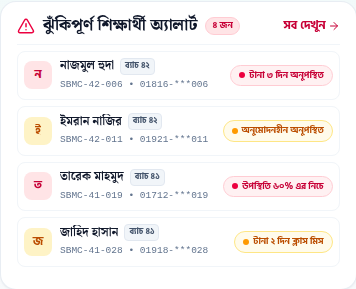
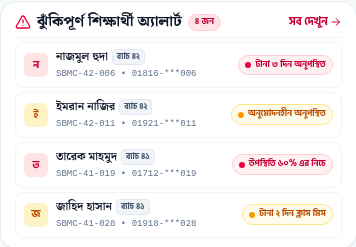
fix(admin): gently slim row 4 boxes (at-risk, classes, course progress)

diff --git a/web/src/app/admin/page.tsx b/web/src/app/admin/page.tsx
@@ -1029,62 +1029,62 @@ export default function AdminOverviewPage() {
         </div>
       </div>
 
-      {/* 4. ROW 4: AT-RISK ALERTS (4 COLS) + UPCOMING CLASSES (5 COLS) + COURSE PROGRESS (3 COLS) - SLIM & COMPACT */}
+      {/* 4. ROW 4: AT-RISK ALERTS (4 COLS) + UPCOMING CLASSES (5 COLS) + COURSE PROGRESS (3 COLS) - GENTLY SLIMMED */}
       <div className="grid grid-cols-1 md:grid-cols-12 gap-3.5 items-stretch">
-        {/* Col 1: At-Risk & Repeated Absence Alerts (4 cols) - Slim & Compact */}
-        <div className="md:col-span-12 lg:col-span-4 bg-white rounded-2xl p-3.5 sm:px-4 sm:py-3 border border-slate-200/80 shadow-xs flex flex-col justify-between">
+        {/* Col 1: At-Risk & Repeated Absence Alerts (4 cols) - Moderately Slim */}
+        <div className="md:col-span-12 lg:col-span-4 bg-white rounded-2xl p-2.5 sm:px-3.5 sm:py-2.5 border border-slate-200/80 shadow-xs flex flex-col justify-between">
           <div>
-            <div className="flex items-center justify-between pb-1.5 border-b border-slate-100">
-              <div className="flex items-center gap-2">
-                <AlertTriangle className="w-4.5 h-4.5 text-rose-600 shrink-0" />
-                <h3 className="text-[15px] sm:text-base font-extrabold text-[#0F172A] font-serif">
+            <div className="flex items-center justify-between pb-1 border-b border-slate-100">
+              <div className="flex items-center gap-1.5">
+                <AlertTriangle className="w-4 h-4 text-rose-600 shrink-0" />
+                <h3 className="text-sm sm:text-[15px] font-extrabold text-[#0F172A] font-serif">
                   {isBangla ? 'ঝুঁকিপূর্ণ শিক্ষার্থী অ্যালার্ট' : 'At-Risk Student Alerts'}
                 </h3>
-                <span className="px-1.5 py-0.2 rounded-full text-[9px] font-black bg-rose-100 text-rose-700 border border-rose-200">
+                <span className="px-1.5 py-0.2 rounded-full text-[8.5px] font-black bg-rose-100 text-rose-700 border border-rose-200">
                   {isBangla ? '৪ জন' : '4'}
                 </span>
               </div>
               <Link
                 href="/coordinator/at-risk"
-                className="text-xs font-bold text-rose-700 hover:text-rose-800 flex items-center gap-0.5 hover:underline"
+                className="text-[11px] font-bold text-rose-700 hover:text-rose-800 flex items-center gap-0.5 hover:underline"
               >
                 <span>{isBangla ? 'সব দেখুন' : 'View All'}</span>
                 <ArrowRight className="w-3 h-3" />
               </Link>
             </div>
 
-            <div className="space-y-1.5 mt-1.5">
+            <div className="space-y-1 mt-1">
               {atRiskStudentsAlerts.map((st) => (
                 <div
                   key={st.id}
-                  className="flex items-center justify-between gap-2 p-1.5 rounded-lg border border-slate-100 hover:border-rose-200 hover:bg-rose-50/20 transition group"
+                  className="flex items-center justify-between gap-1.5 py-1 px-2 rounded-lg border border-slate-100 hover:border-rose-200 hover:bg-rose-50/20 transition group"
                 >
                   <div className="flex items-center gap-2 min-w-0">
                     <div
-                      className={`w-7 h-7 rounded-lg flex items-center justify-center shrink-0 text-xs font-bold ${
+                      className={`w-6 h-6 rounded-md flex items-center justify-center shrink-0 text-[10.5px] font-bold ${
                         st.severity === 'high' ? 'bg-rose-100 text-rose-700' : 'bg-amber-100 text-amber-700'
                       }`}
                     >
                       {st.name.charAt(0)}
                     </div>
                     <div className="min-w-0">
-                      <div className="flex items-center gap-1.5 flex-wrap">
-                        <h4 className="text-xs font-bold text-[#0F172A] truncate">
+                      <div className="flex items-center gap-1 flex-wrap">
+                        <h4 className="text-[11.5px] font-bold text-[#0F172A] truncate">
                           {st.name}
                         </h4>
-                        <span className="px-1 py-0.2 rounded text-[8.5px] font-bold bg-slate-100 text-slate-600 border border-slate-200">
+                        <span className="px-1 py-0.2 rounded text-[8px] font-bold bg-slate-100 text-slate-600 border border-slate-200">
                           {st.batch}
                         </span>
                       </div>
-                      <p className="text-[9.5px] text-slate-500 font-mono mt-0.5">
+                      <p className="text-[9px] text-slate-500 font-mono">
                         {st.roll} • {st.phone}
                       </p>
                     </div>
                   </div>
 
-                  <div className="flex items-center gap-1.5 shrink-0 text-right">
+                  <div className="flex items-center gap-1 shrink-0 text-right">
                     <span
-                      className={`inline-flex items-center gap-1 px-2 py-0.5 rounded-full text-[9px] font-bold border ${
+                      className={`inline-flex items-center gap-1 px-1.5 py-0.5 rounded-full text-[8.5px] font-bold border ${
                         st.severity === 'high'
                           ? 'bg-rose-50 text-rose-700 border-rose-200'
                           : 'bg-amber-50 text-amber-700 border-amber-200'
@@ -1100,13 +1100,13 @@ export default function AdminOverviewPage() {
           </div>
         </div>
 
-        {/* Col 2: Today's Classes & Monitoring (5 cols) - Slim & Compact */}
-        <div className="md:col-span-12 lg:col-span-5 bg-white rounded-2xl p-3.5 sm:px-4 sm:py-3 border border-slate-200/80 shadow-xs flex flex-col justify-between">
+        {/* Col 2: Today's Classes & Monitoring (5 cols) - Moderately Slim */}
+        <div className="md:col-span-12 lg:col-span-5 bg-white rounded-2xl p-2.5 sm:px-3.5 sm:py-2.5 border border-slate-200/80 shadow-xs flex flex-col justify-between">
           <div>
-            <div className="flex items-center justify-between pb-1.5 border-b border-slate-100">
-              <div className="flex items-center gap-2">
+            <div className="flex items-center justify-between pb-1 border-b border-slate-100">
+              <div className="flex items-center gap-1.5">
                 <ClipboardCheck className="w-4 h-4 text-emerald-600" />
-                <h3 className="text-[15px] sm:text-base font-extrabold text-[#0F172A] font-serif">
+                <h3 className="text-sm sm:text-[15px] font-extrabold text-[#0F172A] font-serif">
                   {isBangla ? 'আজকের ক্লাস ও হাজিরা তদারকি' : "Today's Classes & Attendance"}
                 </h3>
               </div>
@@ -1118,55 +1118,55 @@ export default function AdminOverviewPage() {
                   setSelectedAttendanceBatch(todayClassesMonitoring[0].batchCode || 'all');
                   setShowAttendanceModal(true);
                 }}
-                className="text-xs font-bold text-emerald-700 hover:text-emerald-800 flex items-center gap-0.5 hover:underline cursor-pointer"
+                className="text-[11px] font-bold text-emerald-700 hover:text-emerald-800 flex items-center gap-0.5 hover:underline cursor-pointer"
               >
                 <span>{isBangla ? 'হাজিরা ড্যাশবোর্ড' : 'Attendance Hub'}</span>
                 <ArrowRight className="w-3 h-3" />
               </button>
             </div>
 
-            <div className="space-y-1.5 mt-1.5">
+            <div className="space-y-1 mt-1">
               {todayClassesMonitoring.map((cls, idx) => (
                 <div
                   key={idx}
-                  className="flex items-center justify-between gap-2 p-1.5 rounded-lg border border-slate-100 hover:border-emerald-200 hover:bg-slate-50/50 transition"
+                  className="flex items-center justify-between gap-1.5 py-1 px-2 rounded-lg border border-slate-100 hover:border-emerald-200 hover:bg-slate-50/50 transition"
                 >
                   <div className="flex items-center gap-2 min-w-0">
-                    <div className="px-1.5 py-0.5 rounded-md bg-emerald-50 text-emerald-800 text-center shrink-0 border border-emerald-100">
-                      <span className="block text-[9.5px] font-bold leading-tight whitespace-nowrap">
+                    <div className="px-1.5 py-0.5 rounded bg-emerald-50 text-emerald-800 text-center shrink-0 border border-emerald-100">
+                      <span className="block text-[9px] font-bold leading-tight whitespace-nowrap">
                         {cls.time.split('•')[0] || cls.time}
                       </span>
                     </div>
                     <div className="min-w-0">
-                      <div className="flex items-center gap-1.5 flex-wrap">
-                        <h4 className="text-xs font-bold text-[#0F172A] truncate">
+                      <div className="flex items-center gap-1 flex-wrap">
+                        <h4 className="text-[11.5px] font-bold text-[#0F172A] truncate">
                           {cls.title}
                         </h4>
-                        <span className="px-1 py-0.2 rounded text-[8.5px] font-bold bg-slate-100 text-slate-700 border border-slate-200">
+                        <span className="px-1 py-0.2 rounded text-[8px] font-bold bg-slate-100 text-slate-700 border border-slate-200">
                           {cls.batch}
                         </span>
                       </div>
-                      <p className="text-[9.5px] text-slate-500 truncate mt-0.5">
+                      <p className="text-[9px] text-slate-500 truncate">
                         {cls.instructor} • {cls.room}
                       </p>
                     </div>
                   </div>
 
-                  <div className="flex items-center gap-1.5 shrink-0">
+                  <div className="flex items-center gap-1 shrink-0">
                     {cls.status === 'live' && (
-                      <span className="inline-flex items-center gap-1 px-1.5 py-0.5 rounded-full text-[9px] font-bold bg-emerald-100 text-emerald-800 border border-emerald-300 animate-pulse">
+                      <span className="inline-flex items-center gap-1 px-1.5 py-0.5 rounded-full text-[8.5px] font-bold bg-emerald-100 text-emerald-800 border border-emerald-300 animate-pulse">
                         <span className="w-1.5 h-1.5 rounded-full bg-emerald-600" />
                         {cls.statusLabel}
                       </span>
                     )}
                     {cls.status === 'completed' && (
-                      <span className="inline-flex items-center gap-1 px-1.5 py-0.5 rounded-full text-[9px] font-bold bg-sky-50 text-sky-700 border border-sky-200">
+                      <span className="inline-flex items-center gap-1 px-1.5 py-0.5 rounded-full text-[8.5px] font-bold bg-sky-50 text-sky-700 border border-sky-200">
                         <CheckCircle2 className="w-2.5 h-2.5 text-sky-600" />
                         {cls.statusLabel}
                       </span>
                     )}
                     {cls.status === 'upcoming' && (
-                      <span className="inline-flex items-center gap-1 px-1.5 py-0.5 rounded-full text-[9px] font-bold bg-amber-50 text-amber-700 border border-amber-200">
+                      <span className="inline-flex items-center gap-1 px-1.5 py-0.5 rounded-full text-[8.5px] font-bold bg-amber-50 text-amber-700 border border-amber-200">
                         <Clock className="w-2.5 h-2.5 text-amber-600" />
                         {cls.statusLabel}
                       </span>
@@ -1180,7 +1180,7 @@ export default function AdminOverviewPage() {
                         setSelectedAttendanceBatch(cls.batchCode || 'all');
                         setShowAttendanceModal(true);
                       }}
-                      className="inline-flex items-center justify-center px-2 py-0.5 rounded-md bg-emerald-700 hover:bg-emerald-800 text-white text-[10px] font-bold transition shadow-2xs cursor-pointer active:scale-95"
+                      className="inline-flex items-center justify-center px-2 py-0.5 rounded bg-emerald-700 hover:bg-emerald-800 text-white text-[9.5px] font-bold transition shadow-2xs cursor-pointer active:scale-95"
                       title={isBangla ? 'হাজিরা শিট তদারকি করুন' : 'View Attendance Sheet'}
                     >
                       {isBangla ? 'হাজিরা' : 'Attendance'}
@@ -1192,18 +1192,18 @@ export default function AdminOverviewPage() {
           </div>
         </div>
 
-        {/* Col 3: Course Progress Circular Donut (3 cols) - Slim, compact & balanced */}
-        <div className="md:col-span-12 lg:col-span-3 bg-white rounded-2xl p-3.5 sm:px-4 sm:py-3 border border-slate-200/80 shadow-xs flex flex-col justify-between">
+        {/* Col 3: Course Progress Circular Donut (3 cols) - Moderately Slim */}
+        <div className="md:col-span-12 lg:col-span-3 bg-white rounded-2xl p-2.5 sm:px-3.5 sm:py-2.5 border border-slate-200/80 shadow-xs flex flex-col justify-between">
           <div>
-            <div className="flex items-center gap-2 pb-1.5 border-b border-slate-100">
-              <Clock className="w-5 h-5 text-emerald-700 shrink-0" strokeWidth={2.7} />
-              <h3 className="text-[15px] sm:text-base font-extrabold text-[#0F172A] font-serif">
+            <div className="flex items-center gap-1.5 pb-1 border-b border-slate-100">
+              <Clock className="w-4.5 h-4.5 text-emerald-700 shrink-0" strokeWidth={2.7} />
+              <h3 className="text-sm sm:text-[15px] font-extrabold text-[#0F172A] font-serif">
                 {isBangla ? 'কোর্স অগ্রগতি' : 'Course Progress'}
               </h3>
             </div>
 
-            <div className="flex flex-col items-center justify-center my-1.5">
-              <div className="relative w-28 h-28 sm:w-30 sm:h-30 flex items-center justify-center">
+            <div className="flex flex-col items-center justify-center my-1">
+              <div className="relative w-22 h-22 sm:w-24 sm:h-24 flex items-center justify-center">
                 <svg className="w-full h-full transform -rotate-90" viewBox="0 0 100 100">
                   <circle
                     cx="50"
@@ -1239,40 +1239,40 @@ export default function AdminOverviewPage() {
                   />
                 </svg>
                 <div className="absolute inset-0 flex flex-col items-center justify-center text-center">
-                  <span className="text-xl sm:text-2xl font-black text-[#0F172A] tracking-tight leading-none">
+                  <span className="text-lg sm:text-xl font-black text-[#0F172A] tracking-tight leading-none">
                     72.4%
                   </span>
-                  <span className="text-[8.5px] text-slate-500 font-bold mt-0.5 tracking-wider uppercase">
+                  <span className="text-[8px] text-slate-500 font-bold mt-0.5 tracking-wider uppercase">
                     {isBangla ? 'অগ্রগতি' : 'Progress'}
                   </span>
                 </div>
               </div>
 
-              <span className="text-[10px] font-bold text-slate-500 text-center mt-1 block tracking-tight">
+              <span className="text-[9.5px] font-bold text-slate-500 text-center mt-0.5 block tracking-tight">
                 {isBangla ? 'সার্বিক অগ্রগতি' : 'Overall Progress'}
               </span>
 
-              <div className="w-full space-y-1 mt-1.5 pt-1.5 border-t border-slate-100 text-xs">
+              <div className="w-full space-y-0.5 mt-1 pt-1 border-t border-slate-100 text-[11px]">
                 <div className="flex items-center justify-between text-slate-600">
                   <span className="flex items-center gap-1.5">
                     <span className="w-2 h-2 rounded-full bg-[#059669] shrink-0" />
-                    <span className="font-medium text-[11px]">{isBangla ? 'সম্পন্ন' : 'Completed'}</span>
+                    <span className="font-medium">{isBangla ? 'সম্পন্ন' : 'Completed'}</span>
                   </span>
-                  <span className="font-extrabold text-[#0F172A] text-xs">72.4%</span>
+                  <span className="font-extrabold text-[#0F172A] text-[11.5px]">72.4%</span>
                 </div>
                 <div className="flex items-center justify-between text-slate-600">
                   <span className="flex items-center gap-1.5">
                     <span className="w-2 h-2 rounded-full bg-[#F59E0B] shrink-0" />
-                    <span className="font-medium text-[11px]">{isBangla ? 'চলমান' : 'In Progress'}</span>
+                    <span className="font-medium">{isBangla ? 'চলমান' : 'In Progress'}</span>
                   </span>
-                  <span className="font-extrabold text-[#0F172A] text-xs">18.2%</span>
+                  <span className="font-extrabold text-[#0F172A] text-[11.5px]">18.2%</span>
                 </div>
                 <div className="flex items-center justify-between text-slate-600">
                   <span className="flex items-center gap-1.5">
                     <span className="w-2 h-2 rounded-full bg-slate-300 shrink-0" />
-                    <span className="font-medium text-[11px]">{isBangla ? 'শুরু হয়নি' : 'Not Started'}</span>
+                    <span className="font-medium">{isBangla ? 'শুরু হয়নি' : 'Not Started'}</span>
                   </span>
-                  <span className="font-extrabold text-[#0F172A] text-xs">9.4%</span>
+                  <span className="font-extrabold text-[#0F172A] text-[11.5px]">9.4%</span>
                 </div>
               </div>
             </div>
